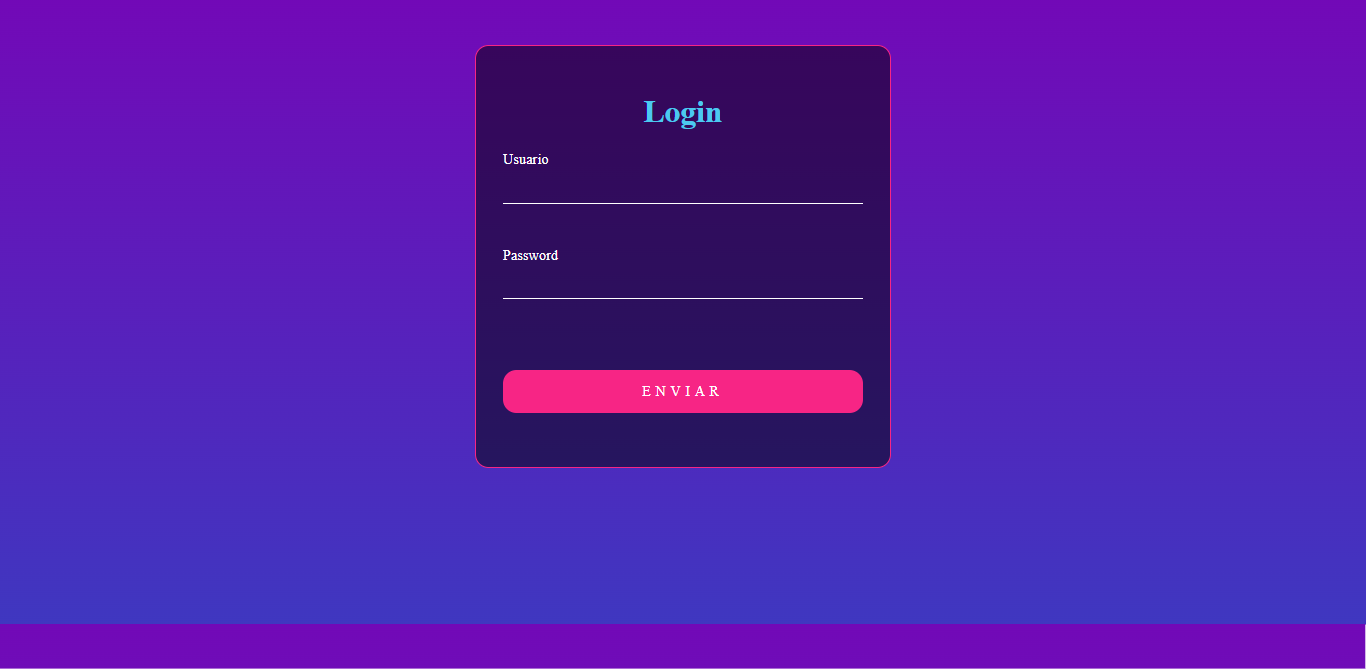
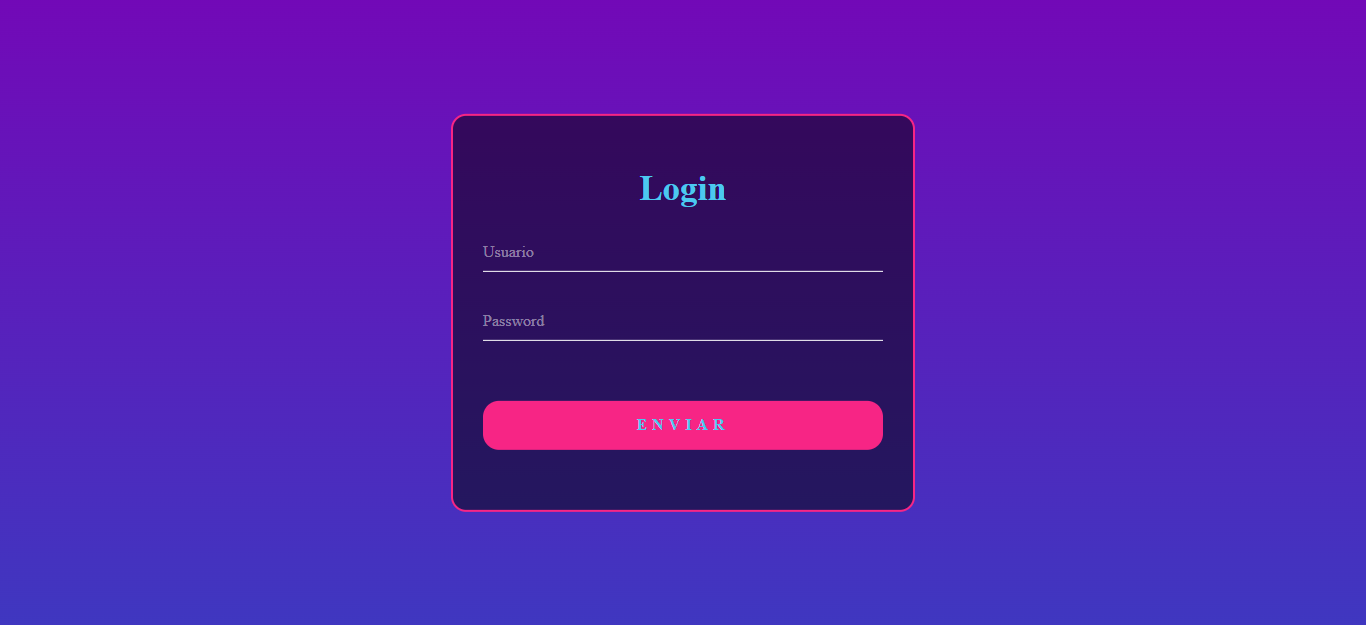
inserción de pseudoclases

Changed region(s): [[0.3075, 0.0608, 0.6764, 0.8208], [0.0, 0.912, 1.0, 1.0], [0.4612, 0.2736, 0.5534, 0.3344]]

diff --git a/Styles/Styles.css b/Styles/Styles.css
@@ -1,45 +1,83 @@
 html{
     height: 100%;
 }
+
 body{
-    margin: 0;
-    padding: 0;
     background: linear-gradient(#7209b7, #3f37c0);
+    margin: 0;
 }
+
 .contenedor{
-    margin: 50px auto;
-    width: 400px;
-    padding: 30px;
     background: rgba(0, 0, 0, .5);
     border-radius: 15px;
-    border: 1px solid #f72585;
+    border: 2px solid #f72585;
+    position: absolute;
+    top: 50%;
+    left: 50%;
+    transform: translate(-50%,-50%);
+    padding: 30px;
+    width: 400px;
 }
+
 .contenedor h1{
-    margin: 0,0, 30px;
-    padding: 0;
-    font-size: 35px;
     color: #4cc9f0;
+    font-size: 35px;
+    margin: 0,0, 30px;
     text-align: center;
 }
-.contenedor .elemento label{
-    color: #fff;
+
+.content-inputs{
+    position: relative;
 }
-.contenedor .elemento input{
-    width: 100%;
-    padding: 10px 0;
+
+.elemento input{
     color: #fff;
     background: transparent;
     border: none;
-    border-bottom: 1px solid #fff; 
-    margin-bottom:  30px;   
+    border-bottom: 1px solid #fff;
+    margin-bottom:  30px;  
+    padding: 10px 0;
+    outline: none;  
+    width: 100%;
 }
-.contenedor .elemento input[type="submit"]{
+
+.content-inputs label{
+    color: #ffffff73;
+    padding: 10px 0;
+    pointer-events: none;
+    position: absolute;
+    top: 0;
+    left: 0;
+    transition: .5s;
+}
+
+.content-inputs input:focus ~ label,
+.content-inputs input:valid ~ label{
+    background: transparent;
+    color: #4cc9f0;
+    font-size: 12px;
+    top: -20px;
+    left: 0;
+}
+
+.elemento input[type="submit"]{
     background-color: #f72585;
     border: none;
-    border-radius: 15px;
+    border-radius: 1rem;
+    color: #4cc9f0;
+    cursor: pointer;
+    font-weight: bolder;
     letter-spacing: 5px;
     text-transform: uppercase;
-    cursor: pointer;
+    transition: all 0.5s;
     padding: 15px;
     margin-top: 30px;
+}
+
+.elemento input[type="submit"]:hover{
+    background-color: #f51177;
+}
+
+.elemento input[type="submit"]:active{
+    transform: scale(.9);
 }

diff --git a/Index.html b/Index.html
@@ -14,17 +14,15 @@
 <body>
     <div class="contenedor">
         <h1>Login</h1>
-        <form id="forma" name="forma "action="Mi Servidor" method="post" onsubmit="datosEnviados()">
-            <div class="elemento"> 
-                <label for="usuario">Usuario</label><br>
+        <form class="square-form" id="forma" name="forma        "action="Mi Servidor" method="post" onsubmit="datosEnviados()">
+            <div class="elemento content-inputs"> 
                 <input type="text" id="usuario" name="usuario" required="true">
+                <label for="usuario">Usuario</label>
             </div>
-            <br>
-            <div class="elemento">
-                <label for="password">Password</label><br>
+            <div class="elemento content-inputs">
                 <input type="password" id="password" name="password" required="true">
+                <label for="password">Password</label>
             </div>
-            <br>
             <div class="elemento">
                 <input type="submit" name="enviar" value="ENVIAR">
             </div>
